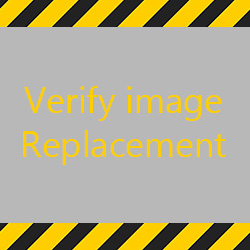
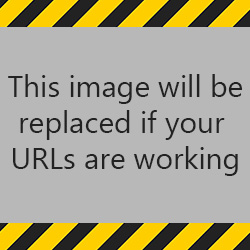
Added image validator to visually confirm success

Changed region(s): [[0.028, 0.28, 0.98, 0.728]]

diff --git a/options.js b/options.js
@@ -1,5 +1,7 @@
 // init from chrome storage on page load, updated when changes are made to the textarea, but only saved to storage when the save button is clicked
 var curSessionCustomImages = [];
+var testImgSrcIndex = -1;
+const TEST_IMAGE_REF = "/images/replacementTester.jpg";
 
 // Saves options to chrome.storage
 async function saveImageOptions() {
@@ -85,7 +87,7 @@ function updateSelectionNotice() {
             noticeText = "Retains native images but adds a spin animation with a randomized speed and direction.";
             break;
         case "custom":
-            noticeText = "Create your own library using whatever images you want!";
+            noticeText = "Create your own library using any images you like!";
             populateTextArea(curSessionCustomImages);
     }
     document.getElementById("ncLibNotice").textContent = noticeText;
@@ -99,8 +101,8 @@ function closeTab() {
 
 function parseTextarea() {
     // get the text and remove newlines and whitespace
-    let textareaContent = document.getElementById("ncTextareaContent").value.replace(/\n/g, "").trim();
-    const urlCandidates = textareaContent.split(',');
+    let textareaContent = document.getElementById("ncTextareaContent").value.replace(/\n/g, "");
+    const urlCandidates = textareaContent.split(',').map(url => url.trim());
 
     const urlRegex = /^(https?:\/\/)?((([a-zA-Z\d]([a-zA-Z\d-]{0,61}[a-zA-Z\d])?)\.)+[a-zA-Z]{2,}|((\d{1,3}\.){3}\d{1,3})|(\[[0-9a-fA-F:]+\]))(:\d+)?(\/[-a-zA-Z\d%_.~+]*)*(\?[;&a-zA-Z\d%_.~+=-]*)?(#[-a-zA-Z\d_]*)?$/;
 
@@ -110,7 +112,14 @@ function parseTextarea() {
     document.getElementById("ncTextAreaNotice").style.color = curSessionCustomImages.length > 0 ? "green" : "red";
     document.getElementById("ncTextAreaNotice").textContent = `${curSessionCustomImages.length} valid urls extracted.`;
 
-    updateTestImage(curSessionCustomImages[curSessionCustomImages.length - 1]);
+    if (curSessionCustomImages.length > 0) {
+        // update the image to the last URL in the list
+        testImgSrcIndex = curSessionCustomImages.length - 1;
+        updateTestImage(curSessionCustomImages[testImgSrcIndex]);
+    } else {
+        updateTestImage(TEST_IMAGE_REF);
+    }
+    updateImageControls();
 }
 
 // change the test image src to verify that an image can be retrieved from the custom url
@@ -118,6 +127,42 @@ function updateTestImage(newSrc) {
     let testImage = document.getElementById("ncTestImg");
     // this is the same replacement logic used in imageReplacer.js
     testImage.setAttribute("style", `height:${testImage.height}px; width:${testImage.width}px; object-fit:cover; object-position:50% 35%; content:url(${newSrc});`);
+}
+
+function showNextTestImage() {
+    if (curSessionCustomImages.length === 0) {
+        return;
+    }
+    testImgSrcIndex = testImgSrcIndex + 1;
+    if (testImgSrcIndex >= curSessionCustomImages.length) {
+        // wrap to first image in list
+        testImgSrcIndex = 0;
+    }
+    updateTestImage(curSessionCustomImages[testImgSrcIndex]);
+    updateImageControls();
+}
+
+function showPrevTestImage() {
+    if (curSessionCustomImages.length === 0) {
+        return;
+    }
+    testImgSrcIndex = testImgSrcIndex - 1;
+    if (testImgSrcIndex < 0) {
+        // wrap to last image in list
+        testImgSrcIndex = curSessionCustomImages.length - 1;
+    }
+    updateTestImage(curSessionCustomImages[testImgSrcIndex]);
+    updateImageControls();
+}
+
+function updateImageControls() {
+    if (curSessionCustomImages.length > 0) {
+        document.getElementById("ncCurIndex").textContent = testImgSrcIndex + 1;
+        document.getElementById("ncSrcListLength").textContent = curSessionCustomImages.length;
+    } else {
+        document.getElementById("ncCurIndex").textContent = 0;
+        document.getElementById("ncSrcListLength").textContent = 0;
+    }
 }
 
 // Restores settings state using the preferences stored in chrome.storage.
@@ -128,7 +173,7 @@ async function restoreOptions() {
             let imgLibName = data.settings.imageReplacement.imgLibraryName;
             document.getElementById("imageLibrarySelection").value = imgLibName;
             // set the session's custom image library on page load
-            curSessionCustomImages = data.settings.imageReplacement.customImageLibrary;
+            curSessionCustomImages = data.settings.imageReplacement.customImageLibrary || [];
             replacementRate = data.settings.imageReplacement.imgReplaceProb;
             // round to 4 decimal places and drop the extra zeros at the end
             document.getElementById("imgReplaceProb").value = +(replacementRate * 100).toFixed(4);
@@ -140,7 +185,14 @@ async function restoreOptions() {
     await loadSettings;
     // update the UI appearance based on the state of current settings
     updateSelectionNotice();
-    updateTestImage(curSessionCustomImages[curSessionCustomImages.length - 1]);
+    if (curSessionCustomImages.length > 0) {
+        // update the image to the last URL in the list
+        testImgSrcIndex = curSessionCustomImages.length - 1;
+        updateTestImage(curSessionCustomImages[testImgSrcIndex]);
+    } else {
+        updateTestImage(TEST_IMAGE_REF);
+    }
+    updateImageControls();
 }
 
 function populateTextArea(urlList) {
@@ -160,4 +212,5 @@ document.getElementById('ncCloseTabButton').addEventListener('click', closeTab);
 // parse textarea and store valid URLs in curSessionCustomImages
 document.getElementById('ncTextareaContent').addEventListener('input', parseTextarea);
 
-// TODO: test to make sure nothing breaks on installation!!
+document.getElementById('ncNextImage').addEventListener('click', showNextTestImage);
+document.getElementById('ncPrevImage').addEventListener('click', showPrevTestImage);

diff --git a/options.html b/options.html
@@ -10,6 +10,7 @@
     <script src="animeGirlImages.js"></script>
     <link rel="stylesheet" href="./css/style.css">
     <link href="https://fonts.googleapis.com/icon?family=Material+Icons" rel="stylesheet">
+    <link href="https://fonts.googleapis.com/css2?family=Material+Symbols+Outlined" rel="stylesheet"/>
 </head>
 
 <body class=ncBody>
@@ -49,16 +50,26 @@
             <div class="ncUrlInput ncLeftColumn">
                 <p>This option will allow you to create a selection of images of your choosing, but it will take some
                     preparation.<br />
-                    All you'll need is a list of publicly accessible URLs of the images you want to use (simpler URLs are
+                    All you'll need is a list of publicly accessible URLs of the images you want to use (simpler URLs
+                    are
                     more likely to work).<br />
                     These can be images that you uploaded to the internet yourself, or images that others have
                     uploaded.<br />
                     Paste them below in a comma-separated list. With great power comes great responsibility!</p>
-                <textarea id="ncTextareaContent" rows="8" cols="60"></textarea>
+                <textarea id="ncTextareaContent" rows="9" cols="70"></textarea>
                 <div id="ncTextAreaNotice"></div>
             </div>
             <div class="ncColumn ncRightCol">
-                <img id="ncTestImg" src="/images/replacementTester.jpg">
+                <div class="ncImageContainer">
+                    <img id="ncTestImg" src="/images/replacementTester.jpg" alt="Bad URL; could not retrieve image.">
+                    <div class="ncTestImageControls">
+                        <span class="material-symbols-outlined ncControlsIcon" id="ncPrevImage">keyboard_arrow_left</span>
+                        <span class="ncControlsText">
+                            <span id="ncCurIndex">--</span><span>/</span><span id="ncSrcListLength">--</span>
+                        </span>
+                        <span class="material-symbols-outlined ncControlsIcon" id="ncNextImage">keyboard_arrow_right</span>
+                    </div>
+                </div>
             </div>
         </div>
 

diff --git a/css/style.css b/css/style.css
@@ -31,7 +31,7 @@
     margin-left: 50px;
 }
 
-.ncUrlInput p{
+.ncUrlInput p {
     margin-top: 0px;
 }
 
@@ -56,21 +56,57 @@
 }
 
 .ncLeftColumn {
-    flex: 2;
+    flex: 3;
 }
 
 .ncRightCol {
     /* center the image within the right column */
-    flex: 1;
+    flex: 2;
     display: flex;
     justify-content: center;
     align-items: center;
 }
 
-#ncTestImg {
-    height: 200px;
-    width: 200px;
+.ncImageContainer {
+    display: flex;
+    flex-direction: column;
+    align-items: center;
+    text-align: center;
 }
+
+#ncTestImg {
+    max-height: 200px;
+    max-width: 200px;
+    border: 3px dashed #696969;
+}
+
+.ncTestImageControls {
+    margin-top: 7px;
+    user-select: none;
+}
+
+.ncControlsText {
+    text-decoration: none;
+    font-size: small;
+    text-align: center;
+    /* vertical-align: middle; */
+    padding: 4px;
+    margin-left: 20px;
+    margin-right: 20px;
+}
+
+.ncControlsIcon {
+    text-decoration: none;
+    text-align: center;
+    vertical-align: middle;
+    padding: 2px;
+}
+
+.ncControlsIcon:hover {
+    color: #696969;
+    cursor: pointer;
+}
+
 .ncSaveButtonText {
     text-decoration: none;
     font-size: medium;
@@ -93,8 +129,8 @@
     margin-left: auto;
     display: block;
     margin-top: 60px;
-    background-color: #db8484;
-    border: none;
+    background-color: white;
+    border: 3px solid #696969;
     padding: 40px 100px;
     border-radius: 20px;
 }
@@ -103,7 +139,7 @@
     text-decoration: none;
     font-size: x-large;
     text-align: center;
-    color: white;
+    color: #696969;
     vertical-align: middle;
     padding: 2px;
 }
@@ -112,13 +148,13 @@
     text-decoration: none;
     font-size: 40px !important;
     text-align: center;
-    color: white;
+    color: #696969;
     vertical-align: middle;
     padding: 2px;
 }
 
 .ncCloseButton:hover {
-    background-color: #bd7171;
+    background-color: #ccc;
 }
 
 .ncCategory label {
@@ -161,7 +197,7 @@
     text-align: center;
     width: fit-content;
     padding: 10px 20px;
-    margin-bottom: 25px;
+    margin-bottom: 15px;
 }
 
 .ncFooter p {

diff --git a/defaultOptions.js b/defaultOptions.js
@@ -7,6 +7,7 @@ var defaultOptions = {
             "imgReplaceProb": .01,
             "imgLibraryName": "nCage",
             "imgLibrary": ncageImages,
+            "customImageLibrary": [],
             "incrementValue": 0,
             "incrementInterval": 86400000,
             "lastUpdate": 0
